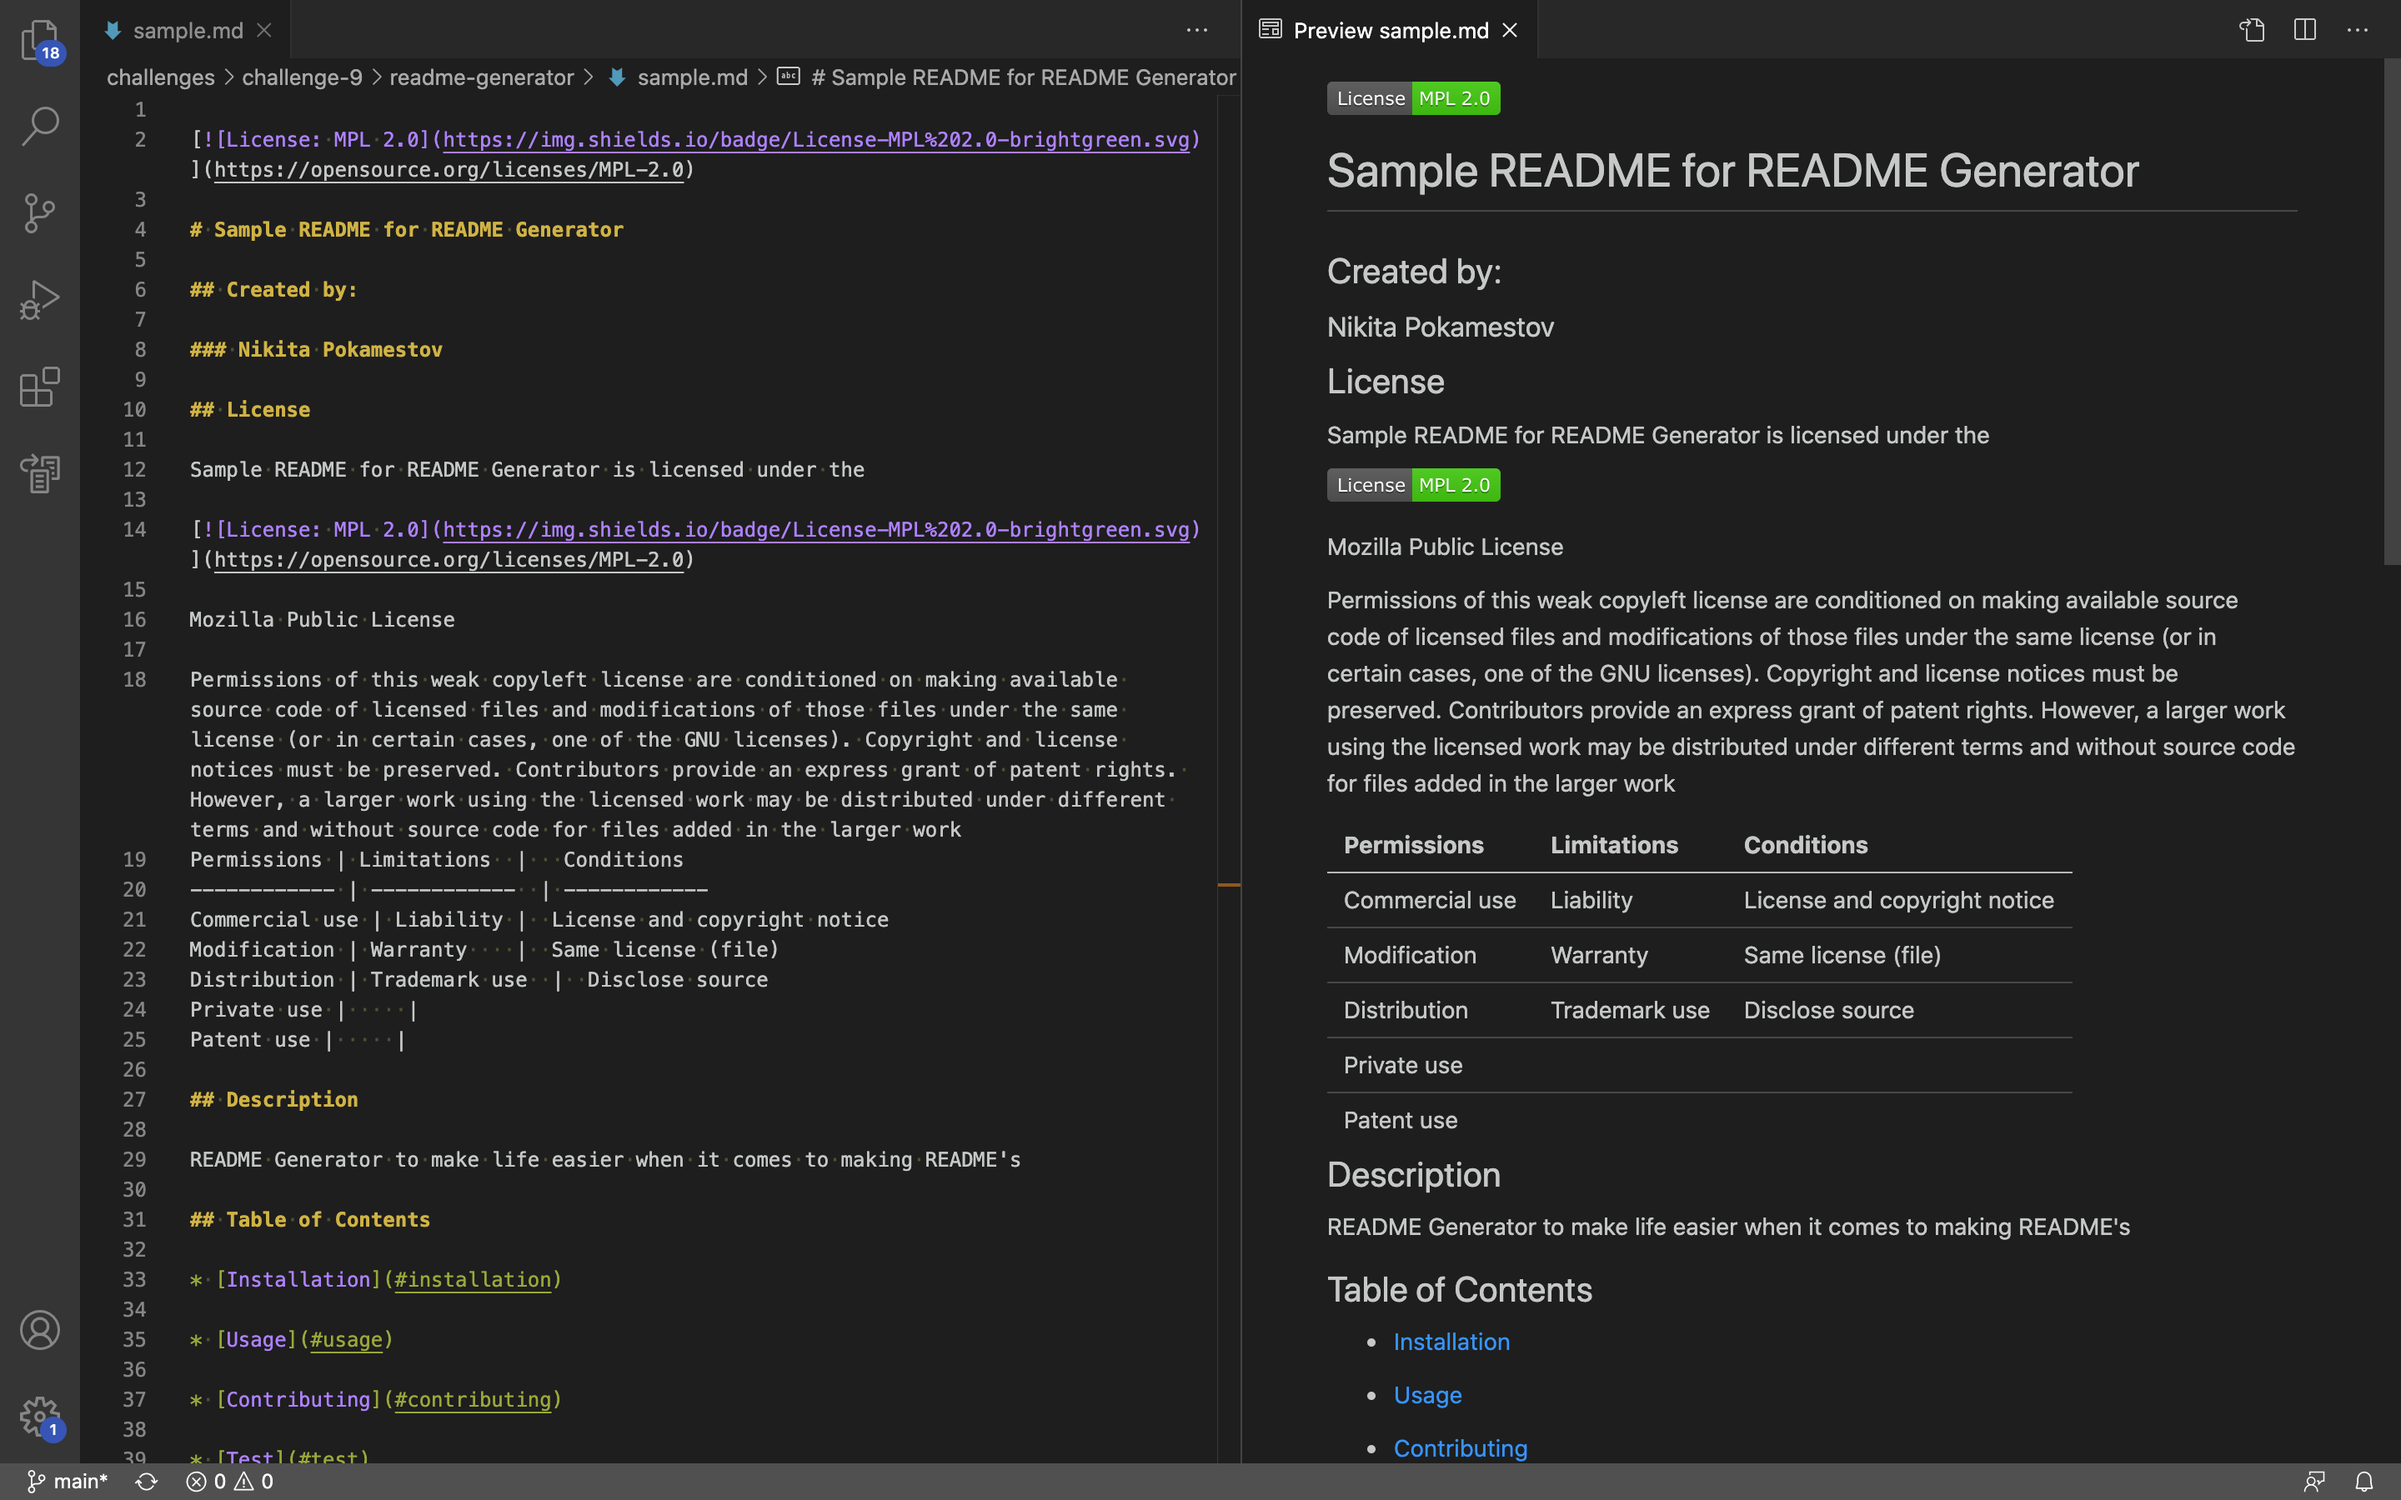
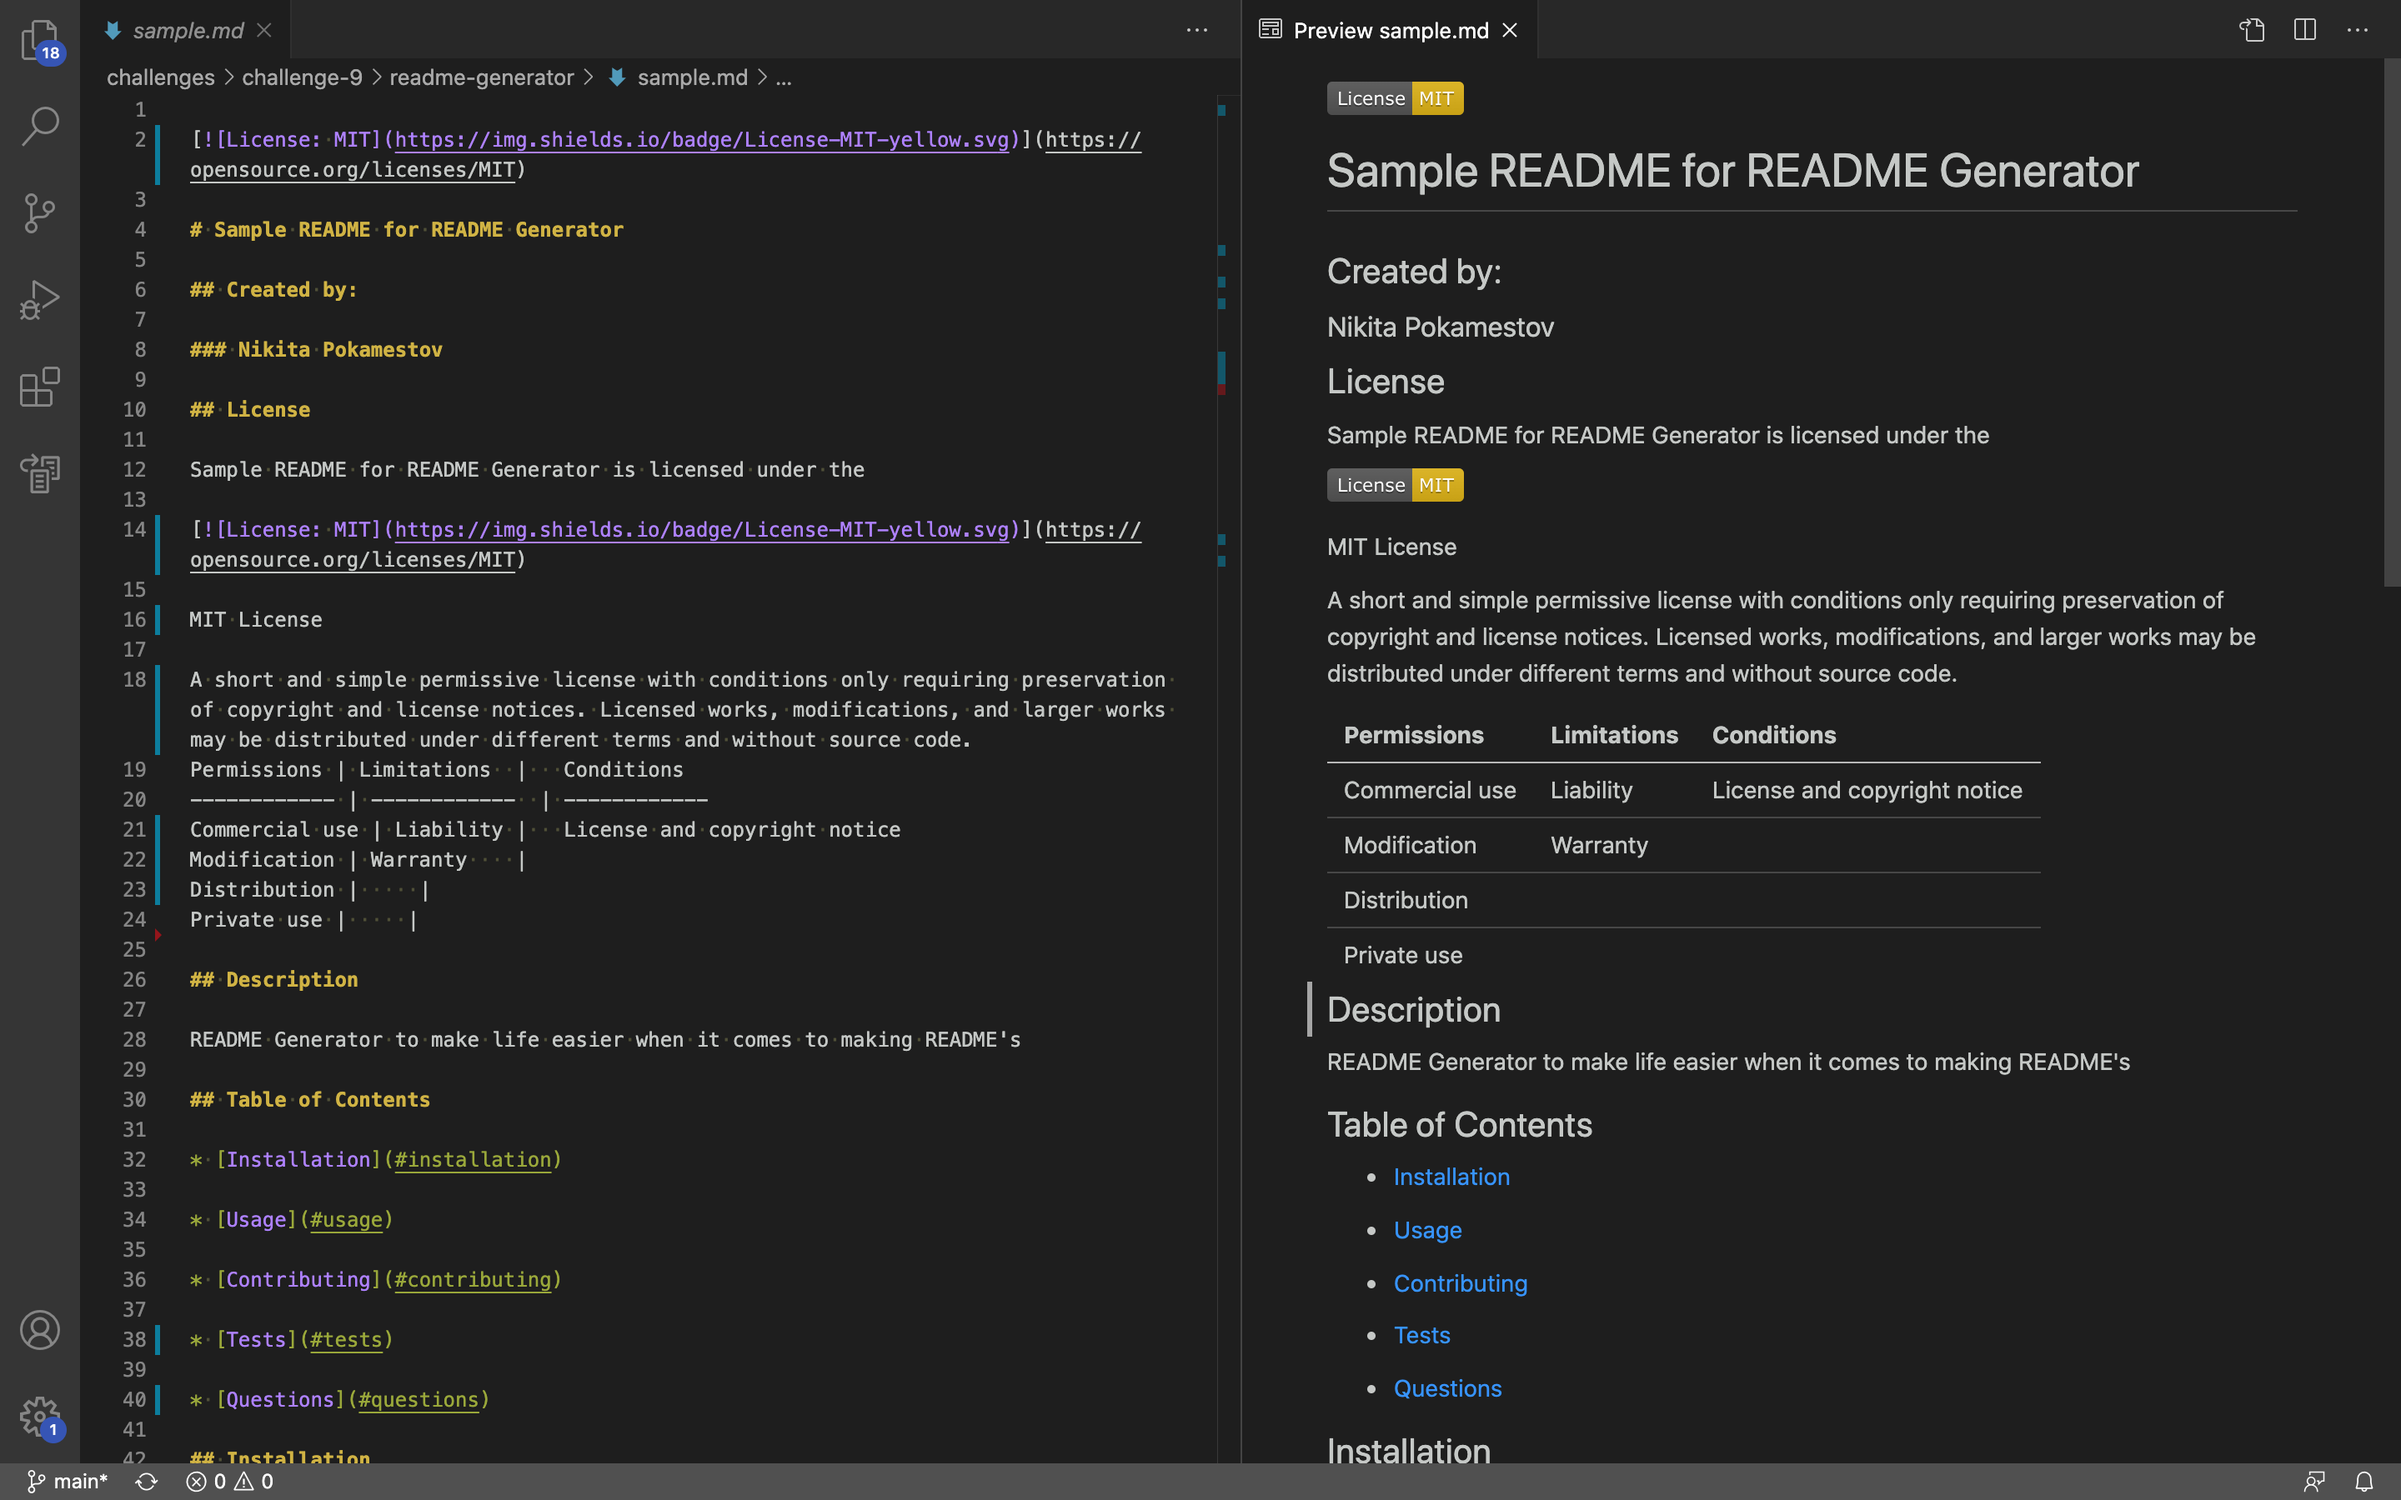
finilazed project and made it ready for submission

diff --git a/Develop/src/readme-template.js b/Develop/src/readme-template.js
@@ -100,9 +100,9 @@ ${data.description}
 
 * [Contributing](#contributing)
 
-* [Test](#test)
+* [Tests](#tests)
 
-* [Contact](#contact)
+* [Questions](#questions)
 
 ## Installation
 
@@ -127,7 +127,7 @@ ${data.contribution}
 To run the tests, run the following command:
 
 \`\`\`
-${data.test}
+${data.tests}
 \`\`\`
 
 ## Questions?

diff --git a/index.js b/index.js
@@ -48,7 +48,7 @@ const questions = () => {
         },
 
         {type: "input",
-            name: "test",
+            name: "tests",
             message: "What command starts the test?",
         },
 

diff --git a/sample.md b/sample.md
@@ -1,5 +1,5 @@
 
-[![License: MPL 2.0](https://img.shields.io/badge/License-MPL%202.0-brightgreen.svg)](https://opensource.org/licenses/MPL-2.0)
+[![License: MIT](https://img.shields.io/badge/License-MIT-yellow.svg)](https://opensource.org/licenses/MIT)
 
 # Sample README for README Generator
 
@@ -11,18 +11,17 @@
 
 Sample README for README Generator is licensed under the
 
-[![License: MPL 2.0](https://img.shields.io/badge/License-MPL%202.0-brightgreen.svg)](https://opensource.org/licenses/MPL-2.0)
+[![License: MIT](https://img.shields.io/badge/License-MIT-yellow.svg)](https://opensource.org/licenses/MIT)
 
-Mozilla Public License
+MIT License
 
-Permissions of this weak copyleft license are conditioned on making available source code of licensed files and modifications of those files under the same license (or in certain cases, one of the GNU licenses). Copyright and license notices must be preserved. Contributors provide an express grant of patent rights. However, a larger work using the licensed work may be distributed under different terms and without source code for files added in the larger work
+A short and simple permissive license with conditions only requiring preservation of copyright and license notices. Licensed works, modifications, and larger works may be distributed under different terms and without source code.
 Permissions | Limitations  |   Conditions
 ------------ | ------------  | ------------
-Commercial use | Liability |  License and copyright notice
-Modification | Warranty    |  Same license (file)
-Distribution | Trademark use  |  Disclose source
+Commercial use | Liability |   License and copyright notice
+Modification | Warranty    |
+Distribution |     |
 Private use |     |
-Patent use |     |
 
 ## Description
 
@@ -36,9 +35,9 @@ README Generator to make life easier when it comes to making README's
 
 * [Contributing](#contributing)
 
-* [Test](#test)
+* [Tests](#tests)
 
-* [Contact](#contact)
+* [Questions](#questions)
 
 ## Installation
 

diff --git a/README.md b/README.md
@@ -19,6 +19,7 @@ GitHub: https://github.com/npokamestov/readme-generator
 
 ## Video
 
+https://drive.google.com/file/d/1vGc5axkaNFkz6WnjmMTcETOZNIm6KLUH/view
 
 ## Screenshot
 
